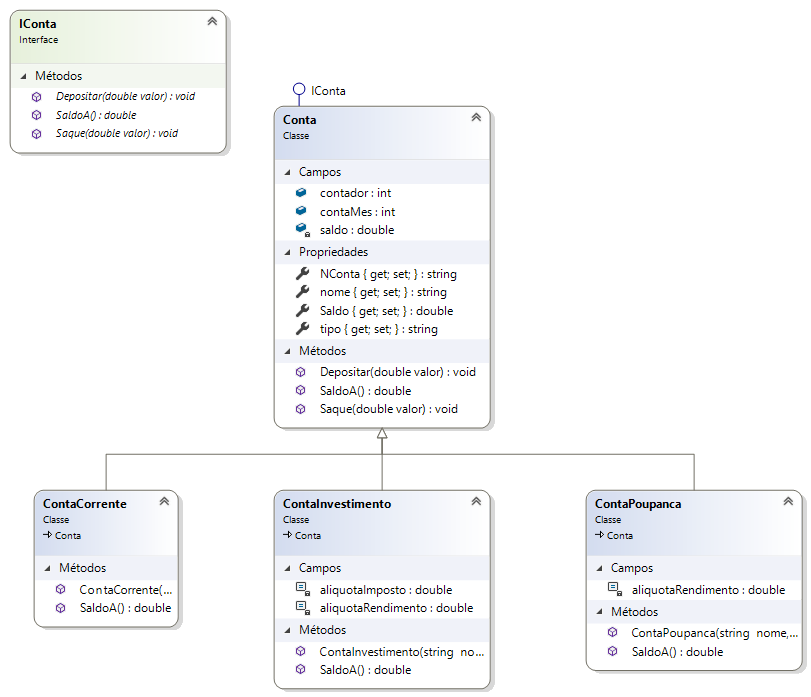
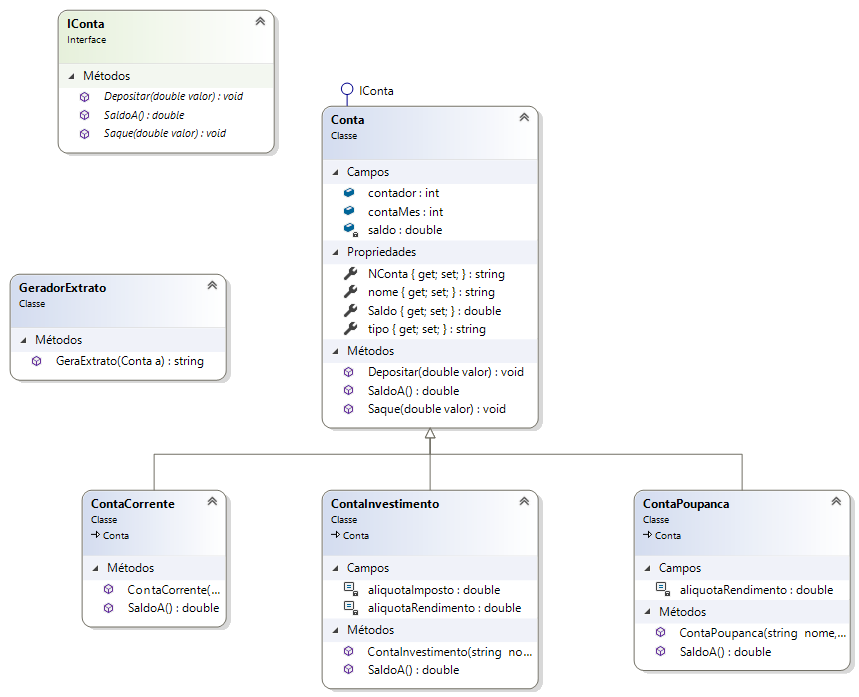
correção de erros

diff --git a/IConta/ContaInvestimento.cs b/IConta/ContaInvestimento.cs
@@ -21,7 +21,7 @@ namespace SistemaBanco
             Conta.contador++;
         }
 
-        public override double SaldoA()
+        public override double calculaRendimento()
         {
             double imposto = base.Saldo * aliquotaRendimento * aliquotaImposto;
             base.Saldo += base.Saldo * aliquotaRendimento - imposto;

diff --git a/IConta/MainWindow.xaml.cs b/IConta/MainWindow.xaml.cs
@@ -41,7 +41,7 @@ namespace SistemaBanco
         private void atualizaRendimentos()
         {
             for (int pos = 0; pos < Dados.Count; pos++)
-                Dados[pos].SaldoA();
+                Dados[pos].calculaRendimento();
         }
         private void Ler_Dados_Arquivos()
         {

diff --git a/IConta/ContaPoupanca.cs b/IConta/ContaPoupanca.cs
@@ -20,7 +20,7 @@ namespace SistemaBanco
             Conta.contador++;
         }
 
-        public override double SaldoA()
+        public override double calculaRendimento()
         {
             base.Saldo += Saldo * aliquotaRendimento ;
 

diff --git a/IConta/Conta.cs b/IConta/Conta.cs
@@ -30,7 +30,7 @@ namespace SistemaBanco
         {
             Saldo += valor;
         }
-        public virtual double SaldoA()
+        public virtual double calculaRendimento()
         {
             return 0;
         }

diff --git a/IConta/ContaCorrente.cs b/IConta/ContaCorrente.cs
@@ -19,7 +19,7 @@ namespace SistemaBanco
         }
 
 
-        public override double SaldoA()
+        public override double calculaRendimento()
         {
             return base.Saldo;
         }

diff --git a/IConta/IConta.cs b/IConta/IConta.cs
@@ -10,6 +10,6 @@ namespace SistemaBanco
     {
         void Depositar(double valor);
         void Saque(double valor);
-        double SaldoA();
+        double calculaRendimento();
     }
 }
